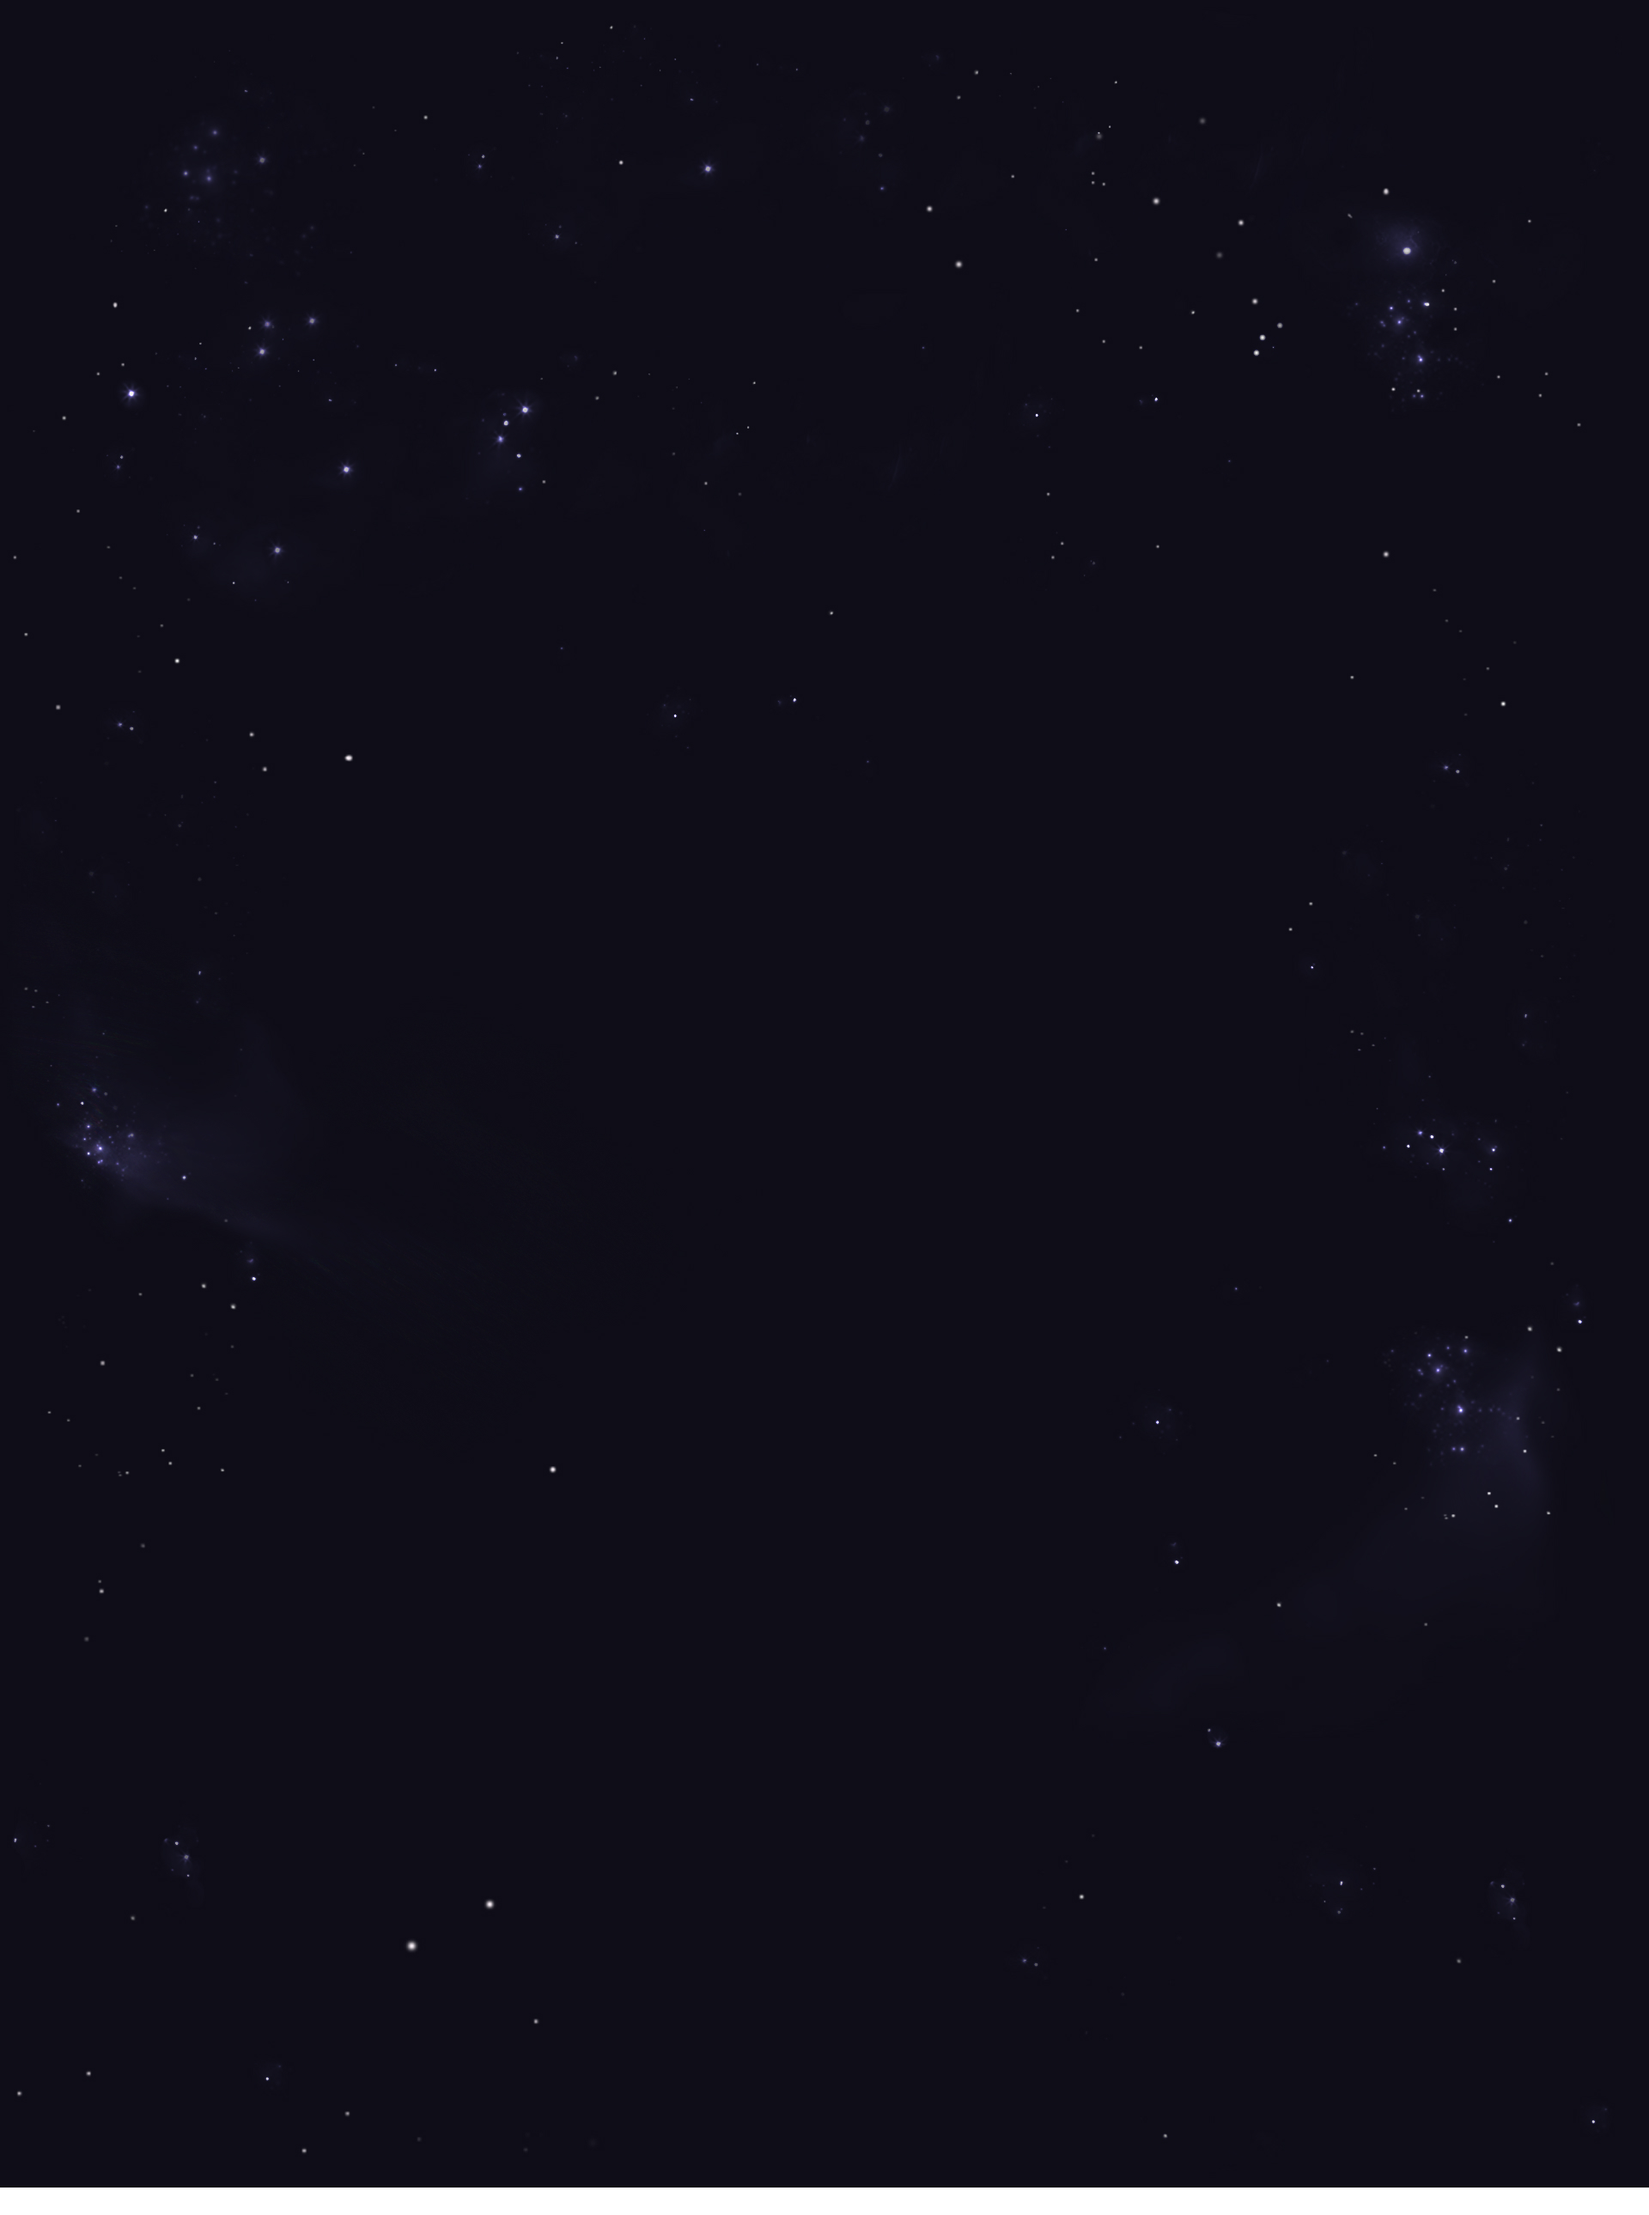
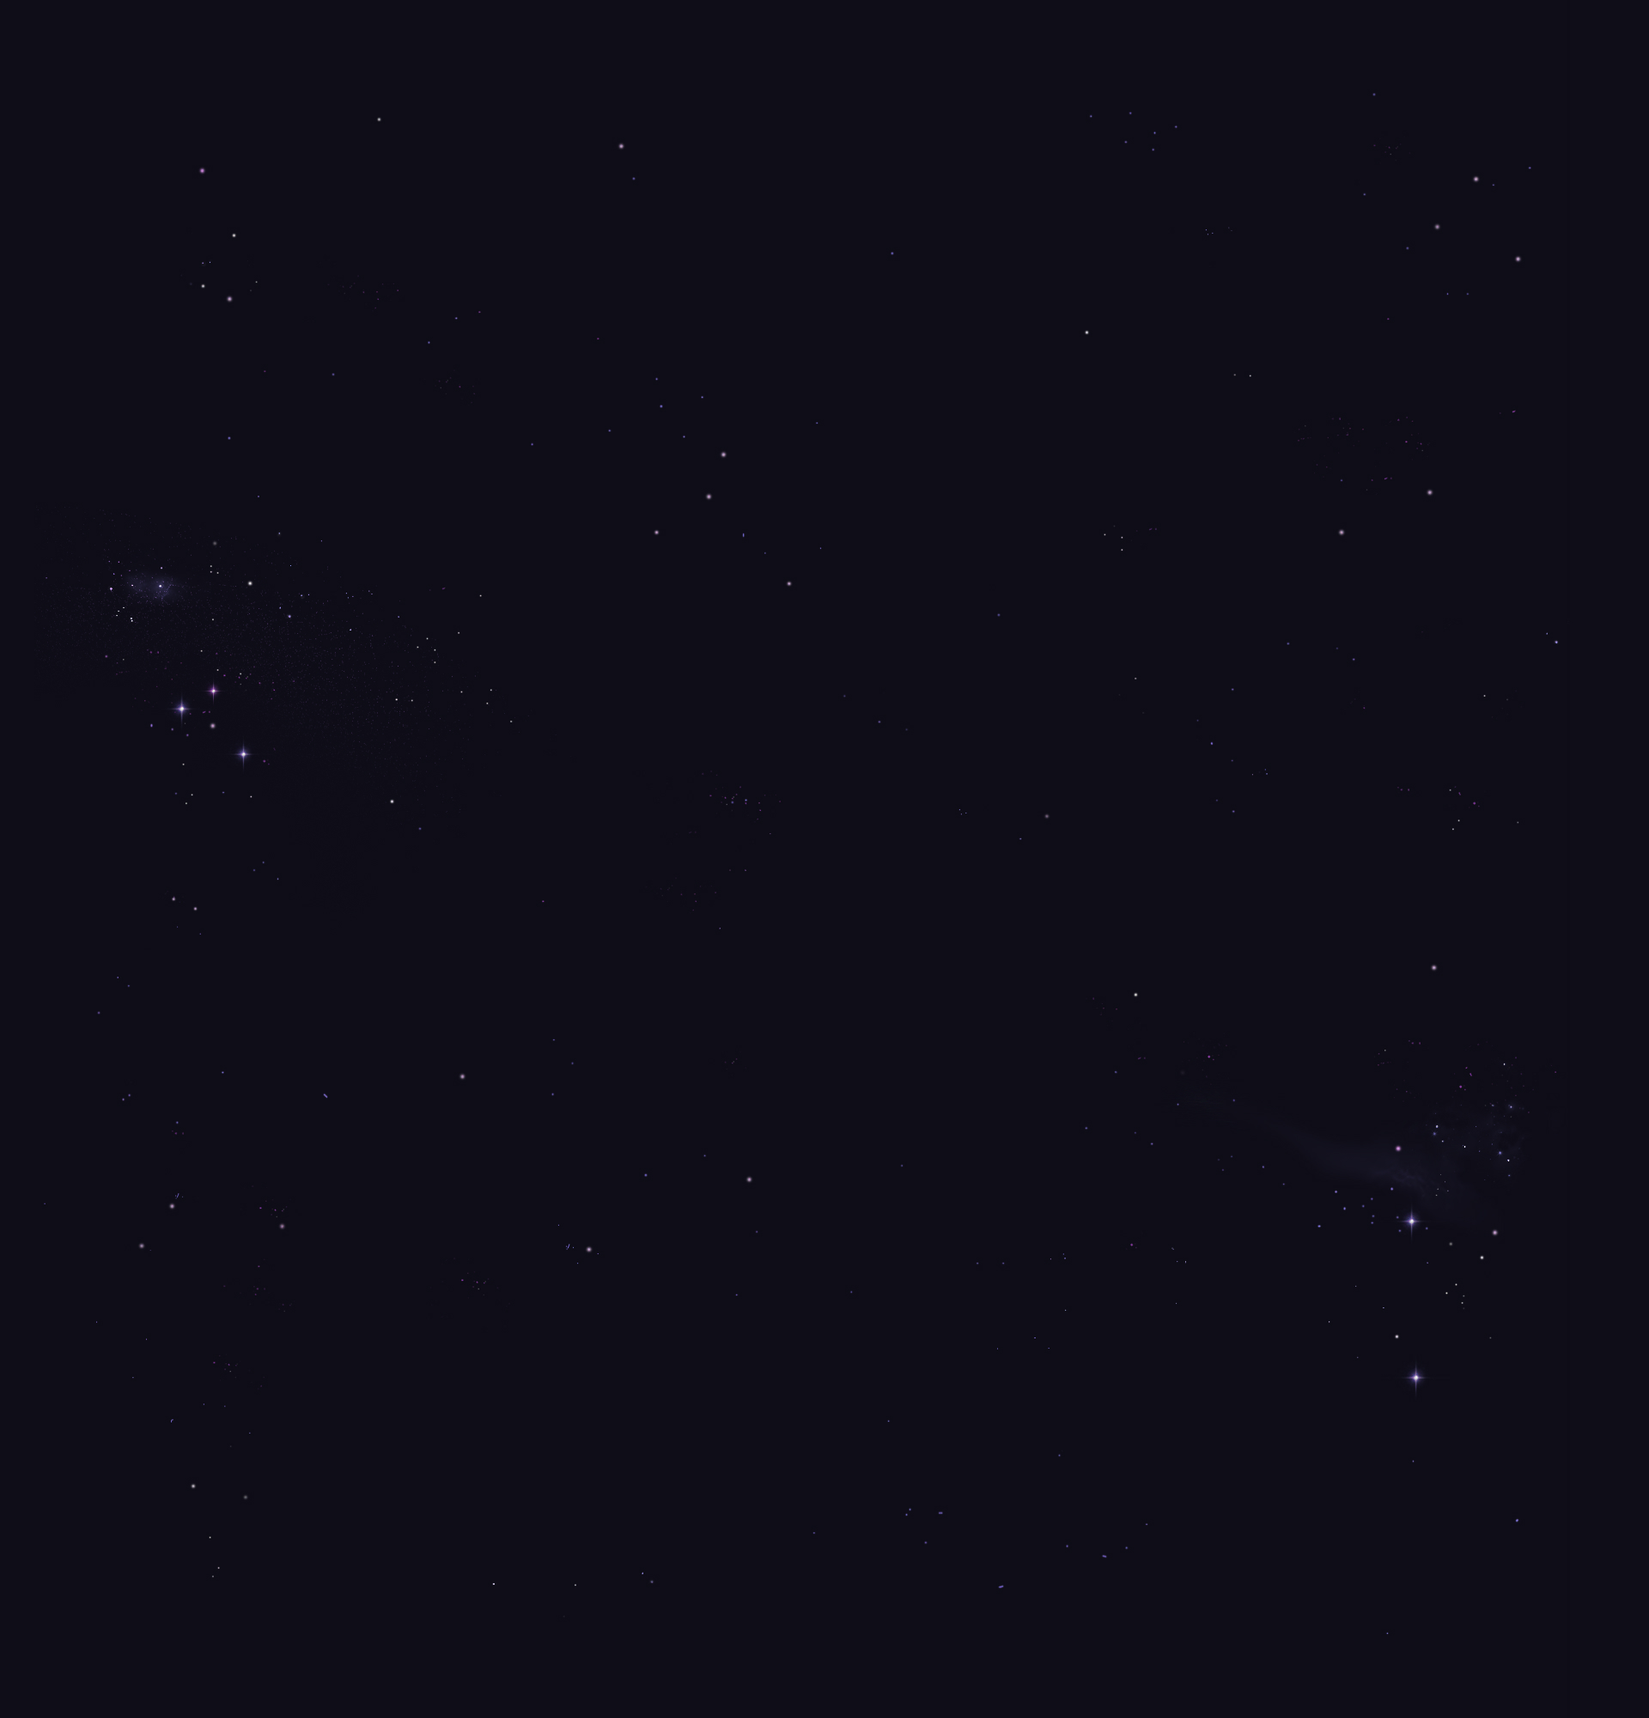
Fix background image sizing, add some stars

Changed region(s): [[0.0, 0.961, 1.0, 1.0], [0.0312, 0.496, 0.0938, 0.527], [0.8438, 0.093, 0.875, 0.124]]

diff --git a/website/src/page/generic-page/generic-page.component.scss b/website/src/page/generic-page/generic-page.component.scss
@@ -2,12 +2,12 @@
 
 article {
     &.planet-blue-pink {
-        background: no-repeat center top / 75% url("/assets/image/cloud_02june (2) 1.png"),
+        background: no-repeat center top / 1920px url("/assets/image/cloud_02june (2) 1.png"),
                     no-repeat center bottom url("/assets/image/planet-blue-pink.jpg");
     }
 
     &.planet-pink {
-        background: no-repeat center top / 75% url("/assets/image/studio_02june (5) 1.png"),
+        background: no-repeat center top / 1920px url("/assets/image/studio_02june (5) 1.png"),
                     no-repeat center bottom url("/assets/image/planet-pink.jpg");
     }
 }

diff --git a/website/src/page/home-page/home-page.component.scss b/website/src/page/home-page/home-page.component.scss
@@ -1,5 +1,6 @@
 article {
-    background: no-repeat center top / 75% url("/assets/image/MainNebula31mai 1.png"),
+    background: no-repeat center top / 1920px url("/assets/image/MainNebula31mai 1.png"),
+                repeat center top url("/assets/image/deep-space1.jpg"),
                 no-repeat center bottom url("/assets/image/planet-blue.jpg");
 }
 

diff --git a/website/src/page/white-paper-details-page/white-paper-details-page.component.scss b/website/src/page/white-paper-details-page/white-paper-details-page.component.scss
@@ -2,7 +2,7 @@
 @import "../../styles/colors";
 
 article {
-    background: no-repeat center top / 75% url("/assets/image/studio_02june (5) 1.png"),
+    background: no-repeat center top / 1920px url("/assets/image/studio_02june (5) 1.png"),
                 no-repeat center bottom url("/assets/image/planet-yellow-green.jpg");
 }
 

diff --git a/website/src/page/white-papers-page/white-papers-page.component.scss b/website/src/page/white-papers-page/white-papers-page.component.scss
@@ -2,7 +2,7 @@
 @import "../../styles/colors";
 
 article {
-    background: no-repeat center top / 75% url("/assets/image/studio_02june (5) 1.png"),
+    background: no-repeat center top / 1920px url("/assets/image/studio_02june (5) 1.png"),
                 no-repeat center bottom url("/assets/image/planet-yellow-green.jpg");
 }
 

diff --git a/website/src/page/intro-page/intro-page.component.scss b/website/src/page/intro-page/intro-page.component.scss
@@ -1,7 +1,7 @@
 @import "../../styles/sizes";
 
 article {
-    background: no-repeat center top / 75% url("/assets/image/typedp_02june_1 (2) 1.png"),
+    background: no-repeat center top / 1920px url("/assets/image/typedp_02june_1 (2) 1.png"),
                 no-repeat center bottom url("/assets/image/planet-magenta.jpg");
 }
 

diff --git a/website/src/page/webinar-details-page/webinar-details-page.component.scss b/website/src/page/webinar-details-page/webinar-details-page.component.scss
@@ -2,7 +2,7 @@
 @import "../../styles/colors";
 
 article {
-    background: no-repeat center top / 75% url("/assets/image/features_02june 1.png"),
+    background: no-repeat center top / 1920px url("/assets/image/features_02june 1.png"),
                 no-repeat center bottom url("/assets/image/planet-yellow-green.jpg");
 }
 

diff --git a/website/src/page/webinars-page/webinars-page.component.scss b/website/src/page/webinars-page/webinars-page.component.scss
@@ -2,7 +2,7 @@
 @import "../../styles/colors";
 
 article {
-    background: no-repeat center top / 75% url("/assets/image/features_02june 1.png"),
+    background: no-repeat center top / 1920px url("/assets/image/features_02june 1.png"),
                 no-repeat center bottom url("/assets/image/planet-yellow-green.jpg");
 }
 

diff --git a/website/src/page/features-page/features-page.component.scss b/website/src/page/features-page/features-page.component.scss
@@ -1,7 +1,7 @@
 @import "../../styles/sizes";
 
 article {
-    background: no-repeat center top / 75% url("/assets/image/features_02june 1.png"),
+    background: no-repeat center top / 1920px url("/assets/image/features_02june 1.png"),
                 no-repeat center bottom url("/assets/image/planet-yellow-green.jpg");
 }
 

diff --git a/website/src/page/deployment-page/deployment-page.component.scss b/website/src/page/deployment-page/deployment-page.component.scss
@@ -1,5 +1,5 @@
 article {
-    background: no-repeat center top / 75% url("/assets/image/deploy_02june (2) 1.png"),
+    background: no-repeat center top / 1920px url("/assets/image/deploy_02june (2) 1.png"),
                 no-repeat center bottom url("/assets/image/planet-yellow-green.jpg");
 }
 

diff --git a/website/src/page/solution-page/solution-page.component.scss b/website/src/page/solution-page/solution-page.component.scss
@@ -1,4 +1,4 @@
 article {
-    background: no-repeat center top / 75% url("/assets/image/solutions_02june 1.png"),
+    background: no-repeat center top / 1920px url("/assets/image/solutions_02june 1.png"),
                 no-repeat center bottom url("/assets/image/planet-magenta.jpg");
 }
